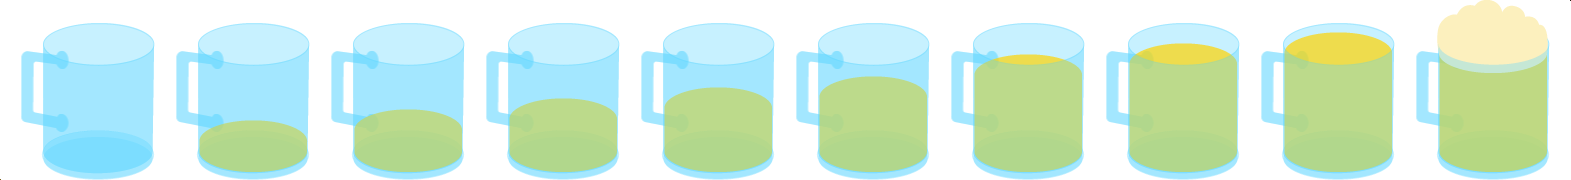
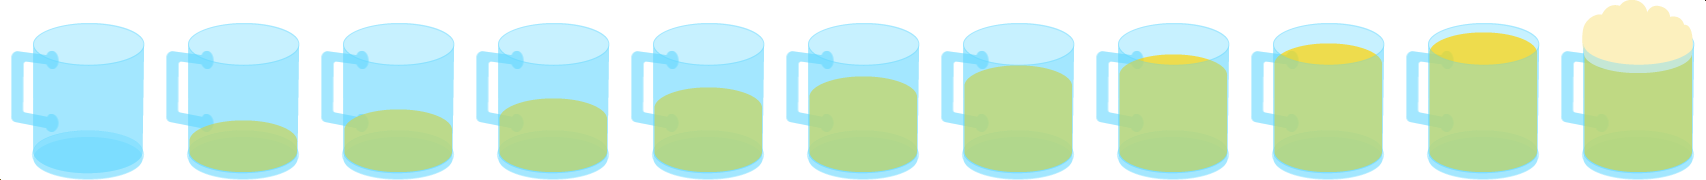
anim kraken

diff --git a/public/js/SceneGame.js b/public/js/SceneGame.js
@@ -253,13 +253,12 @@ const Card = class {
     }
 
     flipCard(frame, game, x, y, rotate, cd) {
-        this.frame = frame
         this.flipTween = game.add.tween(this.card.scale).to({
             x: 0,
             y: gameOptions.flipZoom
         }, gameOptions.flipSpeed / 2, Phaser.Easing.Linear.None);
 
-    window.dispatchEvent(new Event('soundCard'));
+        window.dispatchEvent(new Event('soundCard'));
 
         // once the card is flipped, we change its frame and call the second tween
         this.flipTween.onComplete.add(function(){
@@ -315,13 +314,49 @@ const Card = class {
         this.flipCard(frame, game, posPlayerinfo[player].card.x, posPlayerinfo[player].card.y, posPlayerinfo[player].card.rotation, cb);
         this.moveTo(game.game.world.width / 2 -  120, game.game.world.height / 2 - 300, game);
     }
-    animateKraken(game, card, player, cb) {
+    animateKraken(game, card, player, cd) {
         let frame = 0;
         frame += card.value - 1;
         frame += 13 * (card.color === 'C' ? 0 : card.color === 'D' ? 1 : card.color === 'H' ? 2 : 3);
         this.reset();
+        this.flipTween2 = game.add.tween(this.card.scale).to({
+            x: 0,
+            y: gameOptions.flipZoom
+        }, gameOptions.flipSpeed / 2, Phaser.Easing.Linear.None);
 
-        this.flipCard(frame, game, posPlayerinfo[player].card.x, posPlayerinfo[player].card.y, posPlayerinfo[player].card.rotation, cb);
+        window.dispatchEvent(new Event('soundCard'));
+
+        // once the card is flipped, we change its frame and call the second tween
+        this.flipTween2.onComplete.add(function(){
+            this.card.frame = frame;
+            this.backFlipTween2.start();
+        }, this);
+
+        // second tween: we complete the flip and lower the card
+        this.backFlipTween2 = game.add.tween(this.card.scale).to({
+            x: 4,
+            y: 4
+        }, gameOptions.flipSpeed / 2, Phaser.Easing.Linear.None);
+        this.backFlipTween2.onComplete.add(() => {
+            game.time.events.add(2000, () => {
+                this.revertflipTween = game.add.tween(this.card.scale).to({
+                    x: 0,
+                    y: gameOptions.flipZoom
+                }, gameOptions.flipSpeed / 2, Phaser.Easing.Linear.None);
+
+                window.dispatchEvent(new Event('soundCard'));
+
+                // once the card is flipped, we change its frame and call the second tween
+                this.revertflipTween.onComplete.add(function(){
+                    this.card.frame = 52;
+                    this.setSlowScaling(1, 1, game);
+                    this.moveTo(drawDeck.x, drawDeck.y, game, cd);
+                    this.isFlipping = false;
+                }, this);
+                this.revertflipTween.start();
+            });
+        });
+        this.flipTween2.start();
         this.moveTo(game.game.world.width / 2 -  120, game.game.world.height / 2 - 300, game);
     }
 };
@@ -334,7 +369,7 @@ SceneGame.prototype.preload = function() {
     // Load assets
     this.load.spritesheet("card", "public/image/cards.png", 81, 117);
     this.load.spritesheet("skin", "public/image/avatars.png", 500, 500);
-    this.load.spritesheet("beer", "public/image/beer.png", 143, 180);
+    this.load.spritesheet("beer", "public/image/beer.png", 155, 180);
     this.load.spritesheet("background", "public/image/background.png", {frameWidth: 1920, frameHeight: 1080});
     this.load.spritesheet("mage", "public/image/mage.png", {frameWidth: 1920, frameHeight: 1080});
     this.load.spritesheet("table", "public/image/table.png", {frameWidth: 1920, frameHeight: 1080});
@@ -494,7 +529,7 @@ SceneGame.prototype.displayGameData = function() {
                 break;
             case "callChtulu":
                 printDialog("Tu tentes d'appeler le Kraken...", this);
-                this.elems.mainCardObj.animate(this, lastEvent.data.card, lastEvent.data.player, () => {
+                this.elems.mainCardObj.animateKraken(this, lastEvent.data.card, lastEvent.data.player, () => {
                     let dialog = "";
                     if (lastEvent.data.total >= lastEvent.data.need) {
                         dialog = "Le Kraken est apparu!\nTout les autres doivent faire cul sec.";
@@ -597,7 +632,7 @@ SceneGame.prototype.displayGameData = function() {
             case "callChtulu":
                 printDialog(players[lastEvent.data.player].username + " tente d'appeller le Kraken...", this);
                 // Potentielement animation kraken en meme temps
-                this.elems.mainCardObj.animate(this, lastEvent.data.card, lastEvent.data.player, () => {
+                this.elems.mainCardObj.animateKraken(this, lastEvent.data.card, lastEvent.data.player, () => {
                     let dialog = "";
                     if (lastEvent.data.total >= lastEvent.data.need) {
                         dialog = "Le Kraken est apparu!\nTout le monde doit faire cul sec sauf " + players[lastEvent.data.player].username + ".";
